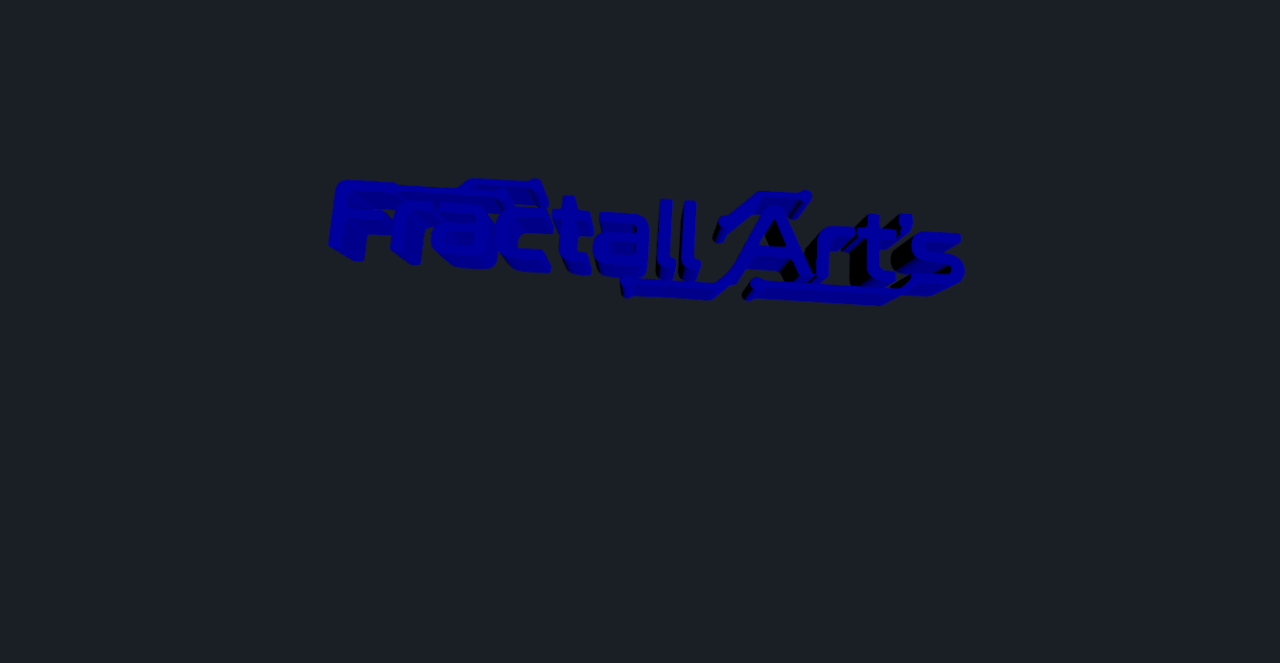
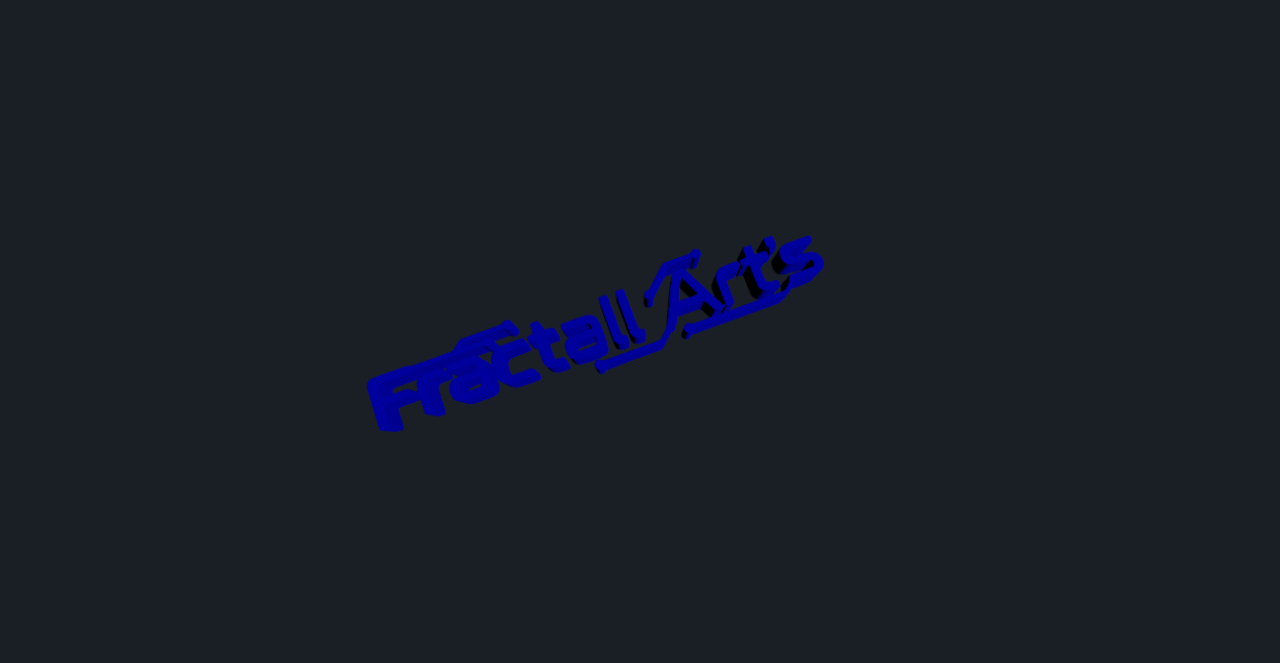
Atualiza com a exportação mais recente de teste_app24

Changed region(s): [[0.25, 0.2715, 0.7812, 0.6637]]

diff --git a/ar.html b/ar.html
@@ -53,11 +53,11 @@ setTimeout(function () {
 <script type="module">
 import * as THREE from 'three';
 import { GLTFLoader } from 'three/addons/loaders/GLTFLoader.js';
-import { RoomEnvironment } from 'three/addons/environments/RoomEnvironment.js';
 import { MindARThree } from 'mindar-image-three';
 
 window.__arIniciou = true;
 var CONFIG = {"modelo":"teste4.glb","alvo":"alvo.mind","escala":0.6958942240779401,"filterMinCF":0.0003,"filterBeta":0.1,"missTolerance":5,"warmupTolerance":2};
+var LUZ = {"hemisferio":{"ceu":"#dfe6f2","chao":"#2a2d33","intensidade":1.1},"sol":{"cor":"#ffffff","intensidade":2.2,"posicao":[4,8,3]}};
 var painel = document.getElementById('painel-topo');
 function aviso(html) { painel.innerHTML = html; painel.hidden = false; }
 
@@ -85,15 +85,6 @@ renderer.outputColorSpace = THREE.SRGBColorSpace;
 // Tela de celular chega a 3x; acima de 2x o custo cresce sem diferenca visivel.
 renderer.setPixelRatio(Math.min(window.devicePixelRatio || 1, 2));
 
-// Luz e um ambiente neutro: sem ambiente, material metalico fica preto.
-scene.add(new THREE.HemisphereLight(0xffffff, 0x445566, 1.2));
-var sol = new THREE.DirectionalLight(0xffffff, 1.6);
-sol.position.set(0.5, 1, 2);
-scene.add(sol);
-var pmrem = new THREE.PMREMGenerator(renderer);
-scene.environment = pmrem.fromScene(new RoomEnvironment(), 0.04).texture;
-pmrem.dispose();
-
 var ancora = mindar.addAnchor(0);
 var base = new THREE.Group();
 base.rotation.x = Math.PI / 2;
@@ -102,6 +93,14 @@ var escalaGrupo = new THREE.Group();
 ancora.group.add(base);
 base.add(giro);
 giro.add(escalaGrupo);
+
+// As mesmas luzes do editor, sem ambiente de reflexo: o que se ve no editor e
+// o que aparece aqui. Ficam na base (o espaco do modelo, Y para cima), nao na
+// cena: no MindAR o "alto" da cena e o da camera, e a luz viria de lado.
+base.add(new THREE.HemisphereLight(LUZ.hemisferio.ceu, LUZ.hemisferio.chao, LUZ.hemisferio.intensidade));
+var sol = new THREE.DirectionalLight(LUZ.sol.cor, LUZ.sol.intensidade);
+sol.position.fromArray(LUZ.sol.posicao);
+base.add(sol, sol.target);
 
 var escala = CONFIG.escala;
 var angulo = 0;
@@ -115,6 +114,14 @@ aplicar();
 
 var mixer = null;
 new GLTFLoader().loadAsync(CONFIG.modelo).then(function (gltf) {
+  // Imagem com recorte (traco fino sobre transparente): bordas suavizadas pelo
+  // MSAA. O GLB ja vem sem mipmap nessas texturas (ver Exportador).
+  gltf.scene.traverse(function (o) {
+    if (!o.isMesh) return;
+    (Array.isArray(o.material) ? o.material : [o.material]).forEach(function (m) {
+      if (m.alphaTest > 0) m.alphaToCoverage = true;
+    });
+  });
   escalaGrupo.add(gltf.scene);
   if (gltf.animations && gltf.animations.length) {
     mixer = new THREE.AnimationMixer(gltf.scene);
